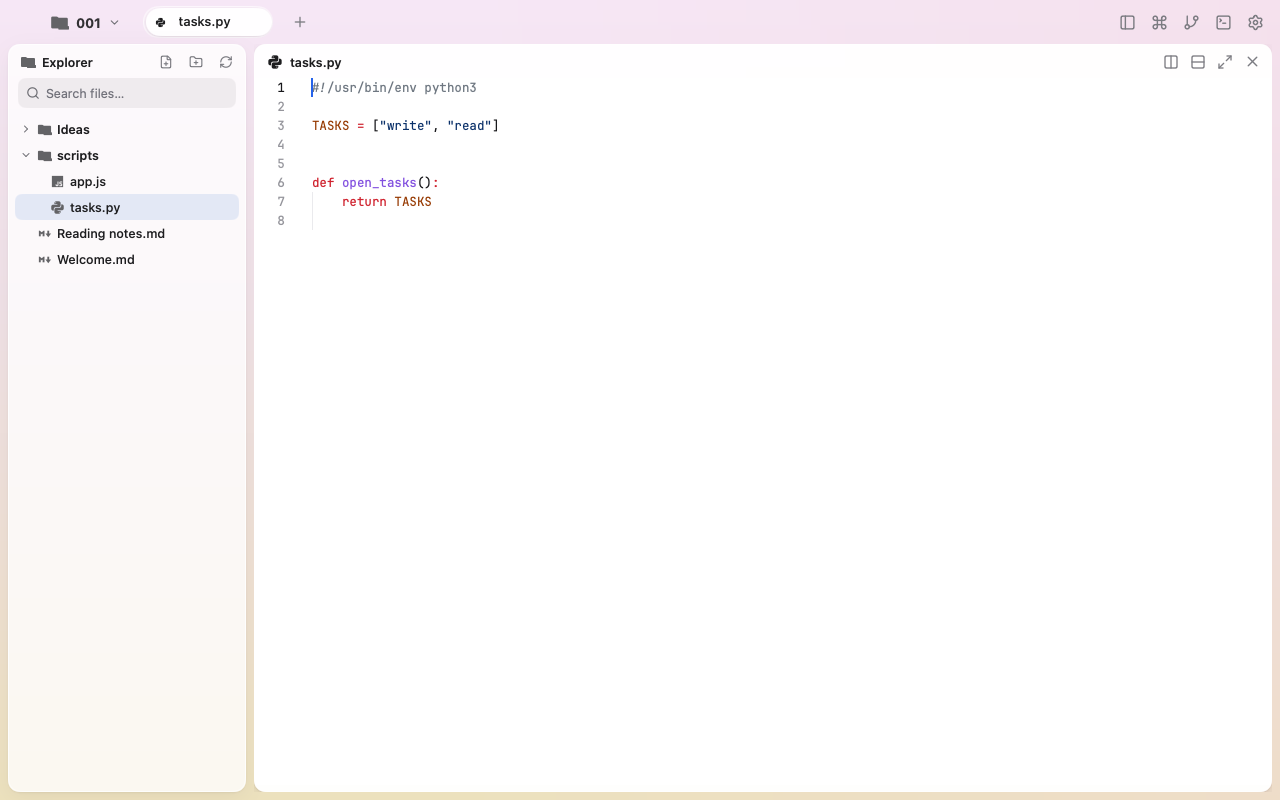
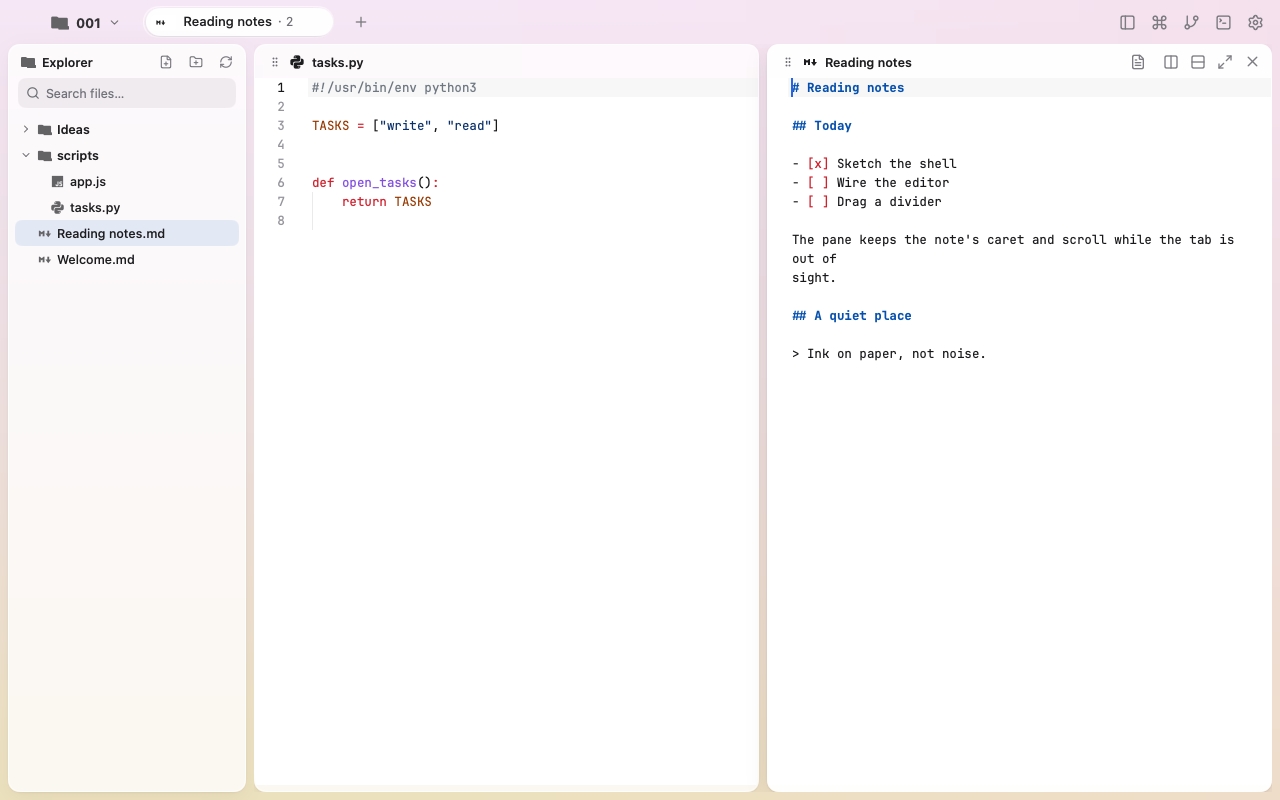
Tile panes without a four-pane limit
- remove maxPanes from splits and terminals; tabs tile as many panes as needed
- add a top-left grip to each pane: drag it onto another pane to swap places
- highlight the source and drop target during a pane drag
- update tests and README for unlimited tiling and pane movement

diff --git a/internal/app/view.go b/internal/app/view.go
@@ -318,6 +318,15 @@ func (a *app) paneCard(c *ui.Context, k *colors, t *tab, p *pane) ui.Element {
 			}
 		})
 	})
+	if p.dragging {
+		card.Border(2, k.Text)
+	}
+	if from, ok := ui.Drop[*pane](card); ok && from != nil && from != p && t.contains(from) {
+		a.later(func() { a.movePane(t, from, p) })
+	}
+	if over, ok := ui.DragOver[*pane](card); ok && over != nil && over != p && t.contains(over) {
+		card.Border(2, k.Text)
+	}
 	if card.Pressed() && t.Focus != p {
 		t.Focus = p
 		if !p.Preview && p.Note != nil {
@@ -326,6 +335,19 @@ func (a *app) paneCard(c *ui.Context, k *colors, t *tab, p *pane) ui.Element {
 		a.changed()
 	}
 	return card
+}
+
+// movePane puts from where to was, and to where from was, so dragging a
+// pane's top-left handle rearranges the tiling.
+func (a *app) movePane(t *tab, from, to *pane) {
+	if t == nil || t != a.tab() || !t.swapPanes(from, to) {
+		return
+	}
+	t.Focus = from
+	t.Zoom = nil
+	a.focusReq = from
+	a.changed()
+	a.invalidate()
 }
 
 // paneHeader draws a note's icon, title and size, its unsaved dot, and
@@ -362,9 +384,21 @@ func (a *app) paneHeader(c *ui.Context, k *colors, t *tab, p *pane, focused, hov
 	}
 	h.Children(func() {
 		iconSize := float32(16)
+		handleW, gripSize := float32(15), float32(12)
 		if compact {
-			iconSize = 14
+			iconSize, handleW, gripSize = 14, 12, 10
 		}
+		grip := ui.Row(c).Width(handleW).Height(headerH).Center().
+			Cursor(ui.CursorGrab).Role(ui.RoleButton).Label("Move Pane").
+			Description("Drag to move pane").Drag(p)
+		if grip.Hovered() {
+			grip.Background(k.Hover)
+		}
+		p.dragging = grip.Dragging()
+		grip.Children(func() {
+			ui.Icon(c, icons.Icon("grip-vertical")).Size(gripSize, gripSize).
+				TextColor(k.TextFaint)
+		})
 		ui.Icon(c, ic).Size(iconSize, iconSize).TextColor(k.Text).Tooltip(name)
 		if compact {
 			ui.Spacer(c)
@@ -403,14 +437,14 @@ func (a *app) paneHeader(c *ui.Context, k *colors, t *tab, p *pane, focused, hov
 				return
 			}
 			if iconButton(c, k, "columns-2", "Split Right", btn, isize).
-				Tooltip(tip("Split Right", cmdSplitRight)).Disabled(len(t.panes()) >= maxPanes).Clicked() {
+				Tooltip(tip("Split Right", cmdSplitRight)).Clicked() {
 				a.later(func() {
 					t.Focus = p
 					a.splitFocused(false)
 				})
 			}
 			if iconButton(c, k, "rows-2", "Split Down", btn, isize).
-				Tooltip(tip("Split Down", cmdSplitDown)).Disabled(len(t.panes()) >= maxPanes).Clicked() {
+				Tooltip(tip("Split Down", cmdSplitDown)).Clicked() {
 				a.later(func() {
 					t.Focus = p
 					a.splitFocused(true)

diff --git a/internal/app/main_test.go b/internal/app/main_test.go
@@ -72,24 +72,24 @@ func TestSplitAndClose(t *testing.T) {
 	}
 }
 
-func TestSplitStopsAtFourPanes(t *testing.T) {
+func TestSplitsPastFourPanes(t *testing.T) {
 	a := newProjectApp(t)
 	t0 := a.tab()
-	for i, n := range a.store.sorted() {
+	notes := a.store.sorted()
+	for i, n := range notes {
 		if i == 0 {
 			continue
 		}
-		a.splitWith(n, false)
+		a.splitWith(n, i%2 == 1)
 	}
-	if got := len(t0.panes()); got != min(len(a.store.sorted()), maxPanes) {
-		t.Fatalf("panes: %d", got)
+	if got, want := len(t0.panes()), len(notes); got != want {
+		t.Fatalf("panes: %d, want %d", got, want)
 	}
-	if len(t0.panes()) < maxPanes {
+	if len(t0.panes()) <= 4 {
 		t.Skip("the fixture has too few files")
 	}
-	a.beginSplit(false)
-	if !strings.Contains(a.err, "at most 4 panes") {
-		t.Fatalf("the fifth pane was allowed: %q", a.err)
+	if a.err != "" {
+		t.Fatalf("splitting past four failed: %q", a.err)
 	}
 }
 
@@ -255,5 +255,29 @@ func TestSplitAnimatesToHalf(t *testing.T) {
 	tt.Advance(300 * time.Millisecond)
 	if root.animating || math.Abs(float64(root.Ratio-0.5)) > 0.001 {
 		t.Fatalf("split settled at %v (animating=%v)", root.Ratio, root.animating)
+	}
+}
+
+func TestDragPaneSwapsPlaces(t *testing.T) {
+	a := newProjectApp(t)
+	a.splitWith(a.store.byRelPath("Reading notes.md"), false)
+	tt := ui.NewTester(a.view, 1100, 700)
+	tt.Frame()
+	tt.Advance(300 * time.Millisecond)
+	first, second := a.tab().panes()[0], a.tab().panes()[1]
+	handle, ok := tt.Find("Move Pane")
+	if !ok {
+		t.Fatal("the pane has no move handle")
+	}
+	tt.Press(handle.X+handle.W/2, handle.Y+handle.H/2)
+	tt.Move(handle.X+40, handle.Y+10)
+	tt.Move(880, 380)
+	tt.Release(880, 380)
+	tt.Frame()
+	if got := a.tab().panes(); got[0] != second || got[1] != first {
+		t.Fatalf("the drag did not swap the panes: %v, %v", got[0].Note.Title, got[1].Note.Title)
+	}
+	if a.tab().Focus != first {
+		t.Fatal("the moved pane is not focused")
 	}
 }

diff --git a/internal/app/term.go b/internal/app/term.go
@@ -74,10 +74,6 @@ func (a *app) splitTerminal(from *pane, down bool) {
 	if t == nil || from == nil || from.Term == nil || !t.contains(from) {
 		return
 	}
-	if len(t.panes()) >= maxPanes {
-		a.fail(fmt.Errorf("a tab can show at most %d panes", maxPanes))
-		return
-	}
 	tt, err := a.startTerminal()
 	if err != nil {
 		a.fail(err)
@@ -93,10 +89,6 @@ func (a *app) addSplitTerminal(from *pane, tt *termTab, down bool) *pane {
 	if t == nil || from == nil || tt == nil || !t.contains(from) {
 		return nil
 	}
-	if len(t.panes()) >= maxPanes {
-		a.fail(fmt.Errorf("a tab can show at most %d panes", maxPanes))
-		return nil
-	}
 	with := newTermPane(tt)
 	if !t.split(from, with, down) {
 		return nil
@@ -109,7 +101,7 @@ func (a *app) addSplitTerminal(from *pane, tt *termTab, down bool) *pane {
 }
 
 // newTerminalPane starts a shell and puts it in a pane on the right edge
-// of the active tab, as one of the tab's four panes.
+// of the active tab, as one of the tab's panes.
 func (a *app) newTerminalPane() {
 	if runtime.GOOS == "js" {
 		a.fail(errors.New("terminals need the desktop app"))
@@ -122,10 +114,6 @@ func (a *app) newTerminalPane() {
 	t := a.tab()
 	if t == nil {
 		a.fail(errors.New("open a file before starting a terminal"))
-		return
-	}
-	if len(t.panes()) >= maxPanes {
-		a.fail(fmt.Errorf("a tab can show at most %d panes", maxPanes))
 		return
 	}
 	tt, err := a.startTerminal()
@@ -141,10 +129,6 @@ func (a *app) newTerminalPane() {
 func (a *app) addTerminalPane(tt *termTab) *pane {
 	t := a.tab()
 	if t == nil || tt == nil {
-		return nil
-	}
-	if len(t.panes()) >= maxPanes {
-		a.fail(fmt.Errorf("a tab can show at most %d panes", maxPanes))
 		return nil
 	}
 	p := newTermPane(tt)

diff --git a/internal/app/split.go b/internal/app/split.go
@@ -9,17 +9,11 @@ import (
 	"mojian/internal/icons"
 )
 
-const maxPanes = 4 // the most editors one tab shows
-
 // beginSplit asks which file the new editor should show, rather than
 // opening a second view of the file already focused.
 func (a *app) beginSplit(down bool) {
 	t := a.tab()
 	if t == nil || t.Focus == nil {
-		return
-	}
-	if len(t.panes()) >= maxPanes {
-		a.fail(fmt.Errorf("a tab can show at most %d panes", maxPanes))
 		return
 	}
 	a.git.Open = false
@@ -68,10 +62,6 @@ func (a *app) chooseSplit(n *note) {
 	if n == nil || t == nil || t != a.tab() || !t.contains(from) {
 		return
 	}
-	if len(t.panes()) >= maxPanes {
-		a.fail(fmt.Errorf("a tab can show at most %d panes", maxPanes))
-		return
-	}
 	with := newPane(n)
 	if !t.split(from, with, a.splitDown) {
 		a.fail(fmt.Errorf("could not split the editor"))
@@ -88,10 +78,6 @@ func (a *app) chooseSplit(n *note) {
 func (a *app) splitWith(n *note, down bool) {
 	t := a.tab()
 	if t == nil || t.Focus == nil || n == nil {
-		return
-	}
-	if len(t.panes()) >= maxPanes {
-		a.fail(fmt.Errorf("a tab can show at most %d panes", maxPanes))
 		return
 	}
 	with := newPane(n)

diff --git a/internal/app/model.go b/internal/app/model.go
@@ -27,6 +27,7 @@ type pane struct {
 	previewScroll ui.ScrollState
 	md            *markdown.Options
 	assetView     *assetView
+	dragging      bool
 }
 
 // assetView is what a picture or PDF pane has loaded, and its headings.
@@ -194,6 +195,35 @@ func (t *tab) split(p, with *pane, down bool) bool {
 	t.Focus = with
 	t.Zoom = nil
 	return true
+}
+
+// swapPanes exchanges two panes' places, keeping their contents and the
+// tab's layout.
+func (t *tab) swapPanes(a, b *pane) bool {
+	if t == nil || a == nil || b == nil || a == b || t.Root == nil {
+		return false
+	}
+	if !t.contains(a) || !t.contains(b) {
+		return false
+	}
+	t.Root.swapPanes(a, b)
+	return true
+}
+
+func (n *node) swapPanes(a, b *pane) {
+	if n == nil {
+		return
+	}
+	if n.Pane == a {
+		n.Pane = b
+		return
+	}
+	if n.Pane == b {
+		n.Pane = a
+		return
+	}
+	n.A.swapPanes(a, b)
+	n.B.swapPanes(a, b)
 }
 
 func (n *node) split(p, with *pane, down bool) bool {

diff --git a/internal/app/files_test.go b/internal/app/files_test.go
@@ -204,9 +204,12 @@ func TestTerminalPaneAndSharedLimit(t *testing.T) {
 	if got := len(a.tab().panes()); got != 4 {
 		t.Fatalf("panes after fourth: %d", got)
 	}
-	a.splitFocused(false)
-	if !strings.Contains(a.err, "at most 4 panes") {
-		t.Fatalf("the terminal did not share the four-pane limit: %q", a.err)
+	a.splitTerminal(a.tab().Focus, false)
+	if got := len(a.tab().panes()); got != 5 {
+		t.Fatalf("panes after fifth: %d", got)
+	}
+	if a.err != "" {
+		t.Fatalf("splitting past four failed: %q", a.err)
 	}
 }
 

diff --git a/README.md b/README.md
@@ -25,8 +25,10 @@ workspaces hold panes, and every pane edits a file with syntax highlighting.
 - **Tabs and split panes.** A tab is a workspace; each pane is an editor.
   The `+` beside the tabs opens an empty workspace, not a copy of the current
   one. Split right or down and choose the file for the new pane; a split never
-  opens the same file twice. A tab holds at most four panes. Drag the divider,
-  double-click it for half and half, zoom a pane, or close it.
+  opens the same file twice. A tab tiles as many panes as you split, horizontally
+  and vertically. Drag a pane's top-left grip onto another pane to swap their
+  places, drag a divider to resize, double-click it for half and half, zoom a
+  pane, or close it.
 - **Markdown, source or rendered.** A Markdown pane has a Preview button at
   the top right; `⇧⌘V` is not needed, and the setting opens new `.md` files
   rendered when preferred.
@@ -41,8 +43,9 @@ workspaces hold panes, and every pane edits a file with syntax highlighting.
   ![The Settings window](docs/settings.png)
 
 - **A terminal inside the window.** `⇧⌘T` opens a terminal pane on the right,
-  in the selected folder. It shares the tab's four-pane limit and the same
-  split, zoom and close controls as a file pane; `⇧⌘T` again closes it. It is a
+  in the selected folder. It tiles with the same split, zoom and close
+  controls as a file pane, and a pane's grip moves it like any other tile;
+  `⇧⌘T` again closes it. It is a
   real terminal (the MyGo terminal plugin, libghostty-vt) with colors,
   selection and clipboard.
 - **A Git diff page.** `⇧⌘G` shows the working tree against `HEAD`: changed
@@ -140,7 +143,7 @@ Inside `internal/app/`:
 | `term.go` | the terminal pane, via MyGo's terminal plugin |
 | `files.go` | file operations: rename, copy, move, trash and the context menu |
 | `picker.go` | the in-window project folder chooser |
-| `split.go` | the split file chooser and the four-pane limit |
+| `split.go` | the split file chooser |
 | `model.go` | files, tabs, panes, the split tree and the saved layout |
 | `view.go` | the title bar, pane cards and splitters |
 | `tabs.go` | the tab strip and tab menu |
